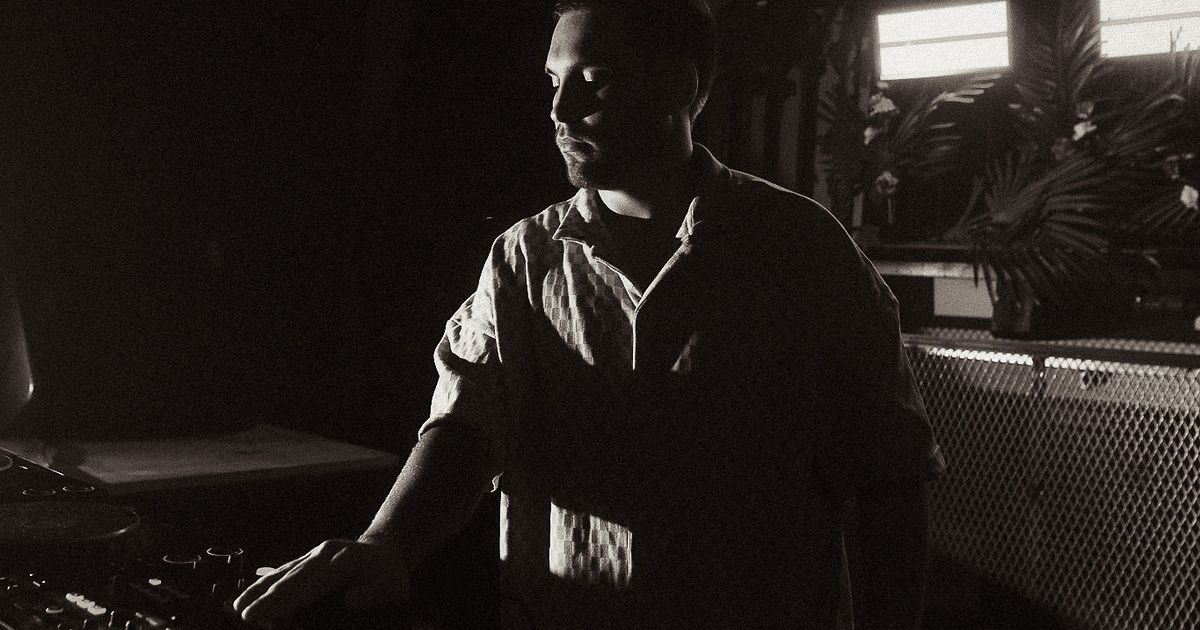
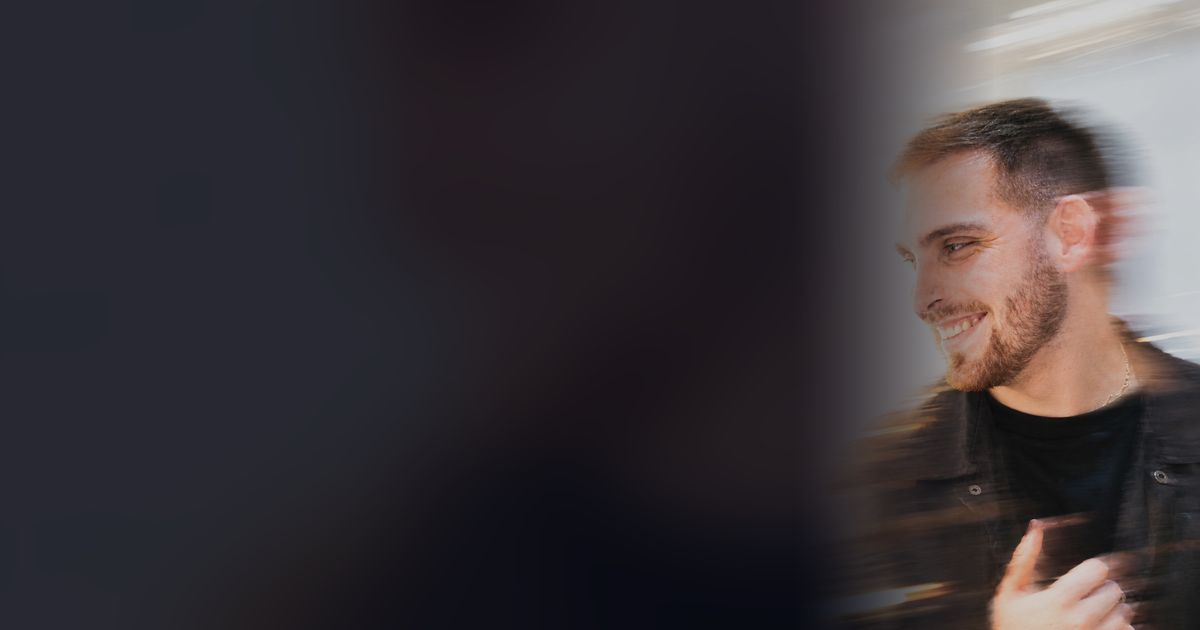
Portada: foto principal del Drive

diff --git a/index.html b/index.html
@@ -161,7 +161,7 @@ footer img{height:36px;opacity:.4}
 @media(max-width:768px){.rg-stage{aspect-ratio:4/5}.rg-nav{opacity:1;width:38px;height:38px;margin-top:-19px;font-size:18px}.rg-prev{left:8px}.rg-next{right:8px}.rg-th{width:48px;height:64px}}
 @media(prefers-reduced-motion:reduce){.rg-img.on{animation:none}.rg-img,.rg-bg{transition:none}}
 
-.hero-bg{background-position:center 60%}
+.hero-bg{background-position:82% center}
 .bio-text strong{color:var(--text);font-weight:500}
 .bio-quote{margin-top:34px;padding-left:22px;border-left:2px solid var(--accent);font-family:'Playfair Display',serif;font-style:italic;font-size:20px;line-height:1.6;color:var(--text)}
 .sc-box{max-width:760px}
